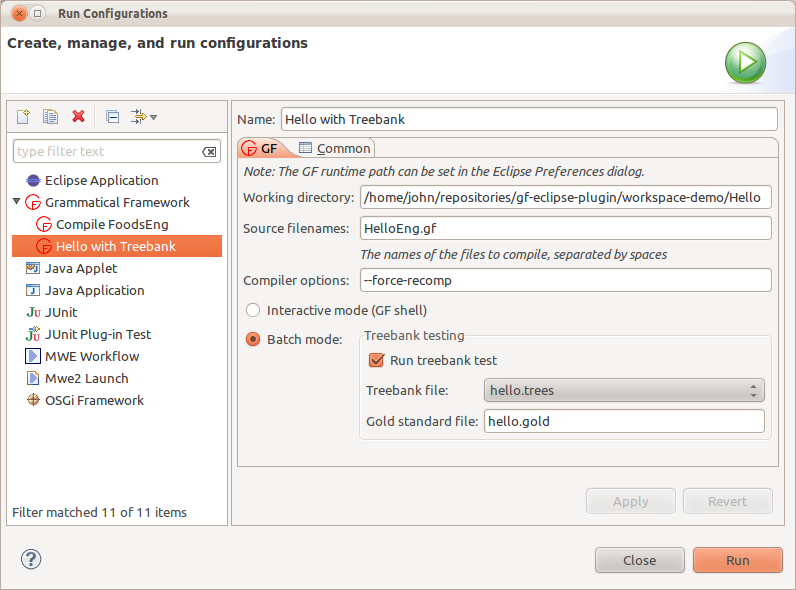
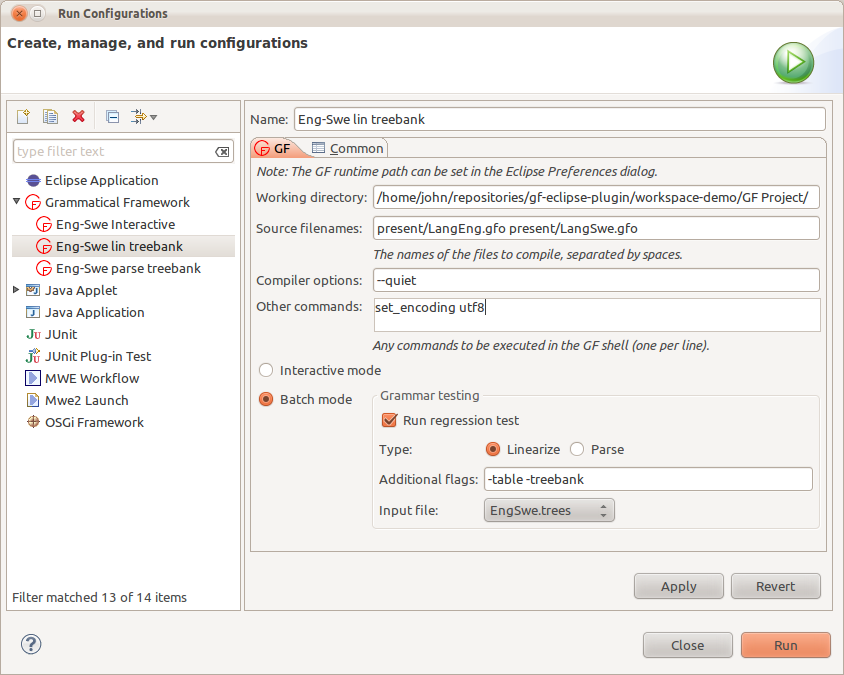
GFEP: updated readme

Changed region(s): [[0.0, 0.0, 1.0, 0.9763]]

diff --git a/eclipse/index.html b/eclipse/index.html
@@ -11,26 +11,29 @@
 <h1>The GF Eclipse Plugin</h1>
 
 <p>John  J. Camilleri<br />
-Updated: 22 March 2012</p>
+Updated: 4 April 2012</p>
 
 <p><em>The research leading to these results has received funding from the European Union&#8217;s Seventh Framework Programme (FP7/2007-2013) under grant agreement no. FP7-ICT-247914.</em></p>
 
-<p><em>This documentation is also available at the <a href="http://www.molto-project.eu/node/1395">MOLTO Project Wiki</a>.</em></p>
-
 <h2>Introduction</h2>
 
-<p>The aim behind developing a desktop IDE for GF is to provide more powerful tools than may be possible and/or practical in a web-based environment (the GF Web IDE). In particular, the ability to resolve identifier cross-references and browse external libraries quickly during development time is one of the primary motivations for the project.</p>
+<p>The aim behind developing a desktop IDE for GF is to provide more powerful tools than may be possible and/or practical in a web-based environment (the <a href="http://www.grammaticalframework.org/demos/gfse/">GF Web IDE</a>). In particular, the ability to resolve identifier cross-references and browse external libraries quickly during development time is one of the primary motivations for the project.</p>
 
-<p>The choice was made to develop this desktop IDE as a plugin for the Eclipse Platform as it emerged as the most popular choice among the GF developer community. Support for the platform is vast and many tools for adapting Eclipse to domain-specific languages already exist. Unlike the zero-click Web IDE approach, using the GF Eclipse plugin (GFEP) will require some manual installation and configuration on the development machine. Thus the GFEP is aimed more at seasoned developers rather than the curious GF newbie.</p>
+<p>The choice was made to develop this desktop IDE as a plugin for the Eclipse Platform as it emerged as the most popular choice among the GF developer community. Support for the platform is vast and many tools for adapting Eclipse to domain-specific languages already exist. Unlike the zero-click Web IDE approach, using the GF Eclipse plugin requires some manual installation and configuration on the development machine.</p>
 
-<p>The starting point for the GFEP is using the <a href="http://www.eclipse.org/Xtext/">Xtext DSL Framework</a> for Eclipse. By converting the GF grammar into the appropriate Extended-BNF form required by the LL(*) ANTLR parser, the framework provides a good starting point for future plugin development, already including a variery of syntax checking tools and some cross-reference resolution support. The specific requirements of the GF language, particularly in the way of its special module hierarchy, mean that significant customisations to this generated base plugin are needed.</p>
+<p>The GFEP was developed with support from the <a href="http://www.molto-project.eu/">MOLTO Project</a>.</p>
 
-<p>The GFEP is being developed by  as part of Work Package 2 of the <a href="http://www.molto-project.eu/">MOLTO Project</a>.</p>
+<h3>License</h3>
+
+<p>The GF Eclipse Plugin is open-source under the <a href="http://www.gnu.org/licenses/gpl-3.0.txt">GNU General Public License (GPL)</a>.<br />
+The licenses that cover the rest of GF are listed <a href="http://www.grammaticalframework.org/LICENSE">here</a>.<br />
+Note that Xtext and Eclipse are released under the <a href="http://www.eclipse.org/legal/epl-v10.html">Eclipse Public License (EPL)</a>.</p>
 
 <h3>Links</h3>
 
 <ul>
-<li>This document shall contain the most up-to-date information about the plugin. The most up-to-date version of this file can always be found in the source-code repository at <a href="https://github.com/GrammaticalFramework/gf-eclipse-plugin/blob/master/README.md">GitHub</a></li>
+<li>This document shall contain all collected information about the plugin. The most up-to-date version of this file can always be found at <a href="https://github.com/GrammaticalFramework/gf-eclipse-plugin/blob/master/README.md">GitHub</a></li>
+<li>This documentation is also available at the <a href="http://www.molto-project.eu/node/1395">MOLTO Project Wiki</a>.</li>
 <li>Source code repository is at <a href="https://github.com/GrammaticalFramework/gf-eclipse-plugin">github.com/GrammaticalFramework/gf-eclipse-plugin</a></li>
 <li>For reporting bugs and requesting features, please use the <a href="https://github.com/GrammaticalFramework/gf-eclipse-plugin/issues">GitHub Issue Tracker</a></li>
 <li>Here are some <a href="http://www.grammaticalframework.org/eclipse/examples/">example GF projects</a> for testing out the plugin features.</li>
@@ -52,21 +55,24 @@ Updated: 22 March 2012</p>
 <li>Code generation for new languages in application grammars</li>
 <li>Inline documentation for function calls, overloads</li>
 <li>Proper cross-reference handling with qualified names</li>
-<li>Treebank management and testing tool</li>
+<li>Test management and testing tool</li>
 <li>External library browser</li>
 </ul>
 
 <h2>Release history</h2>
 
 <dl>
+<dt><strong>04/04/12</strong></dt>
+<dd>(1.4.3.x) Improvements to the Test Manager. Added support for arbitrary commands in launch. Made the license information clearer.</dd>
+
 <dt><strong>22/03/12</strong></dt>
-<dd>(1.4.2.x) Added wizard for context-free grammars (no syntax support, though). Context-menu option for toggling the GF Nature and Builder together. Treebank tool now parses languages &amp; params, and includes filtering and toggling options.</dd>
+<dd>(1.4.2.x) Added wizard for context-free grammars (no syntax support, though). Context-menu option for toggling the GF Nature and Builder together. Test Manager now parses languages &amp; params, and includes filtering and toggling options.</dd>
 
 <dt><strong>14/03/12</strong></dt>
 <dd>(1.4.1.x) GF source files can now be anywhere in project, not necessarily at top level.</dd>
 
 <dt><strong>06/03/12</strong></dt>
-<dd>(1.4.0.x) Treebank manager view. Updated launch configurations. UI improvements, new icons. Inline contextual documentation. Correct resolution of qualified identifiers. Bug fixes and some refactoring.</dd>
+<dd>(1.4.0.x) Test manager view. Updated launch configurations. UI improvements, new icons. Inline contextual documentation. Correct resolution of qualified identifiers. Bug fixes and some refactoring.</dd>
 
 <dt><strong>07/02/12</strong></dt>
 <dd>(1.3.0.x) Re-written underlying GF grammar.</dd>
@@ -100,7 +106,7 @@ Updated: 22 March 2012</p>
 <h3>System requirements</h3>
 
 <ol>
-<li><a href="http://www.grammaticalframework.org/download/release-3.3.3.html">GF version 3.3.3</a> or above. The path to GF must be set within the plugin (see below).</li>
+<li><a href="http://www.grammaticalframework.org/download/release-3.3.3.html">GF 3.3.3</a> or above. The path to GF must be set within the plugin (see below).</li>
 <li><a href="http://www.eclipse.org/downloads/">Eclipse</a> 3.6 or above.</li>
 </ol>
 
@@ -322,9 +328,9 @@ Each time you save a file (or some other change occurs in your project), the bui
 
 <p><em>Future versions of this view will contain a full tree of all identifiers available in the current scope.</em></p>
 
-<h3><em>Treebank Manager</em> view</h3>
+<h3><em>Test Manager</em> view</h3>
 
-<p>This feature works together with the launch configurations to make the process of testing treebanks against your grammars quick and easy. As described in the <a href="http://www.grammaticalframework.org/gf-book/">GF Book</a> (Section 10.5), the general development-test cycle (independent of GFEP) is as follows:</p>
+<p>This feature works together with the launch configurations to make the process of running regression tests on your grammars quick and easy. As described in the <a href="http://www.grammaticalframework.org/gf-book/">GF Book</a> (Section 10.5), the general development-test cycle (independent of GFEP) is as follows:</p>
 
 <ol>
 <li>Create a file <code>test.trees</code> which contains a bunch of abstract syntax trees, which you want to test</li>
@@ -333,21 +339,21 @@ Each time you save a file (or some other change occurs in your project), the bui
 <li>Each time you update your grammar, repeat step 2, then compare your new output against the gold standard using <code>diff</code> or some other comparison tool.</li>
 </ol>
 
-<p>The <strong>Treebank Manager</strong> view follows this same pattern but provides a convenient graphical interface for running your treebanks and also for looking at the output, just using a few clicks:</p>
+<p>The <strong>Test Manager</strong> view follows this same pattern but provides a convenient graphical interface for running your test cases and also for looking at the output, just using a few clicks:</p>
 
-<p><img src="http://www.grammaticalframework.org/eclipse/images/eclipse-treebank-manager.png" alt="Treebank Manager view" /></p>
+<p><img src="http://www.grammaticalframework.org/eclipse/images/eclipse-test-manager.png" alt="Test Manager view" /></p>
 
 <p>Note that GFEP assumes the following convention:</p>
 
 <dl>
-<dt><code>nouns.trees</code></dt>
-<dd>Treebank file (abstract trees)</dd>
+<dt><code>*.trees</code> or <code>*.sentences</code></dt>
+<dd>Test input files: trees file (for testing linearisation) and sentences file (for testing parsing)</dd>
 
-<dt><code>nouns.trees.out</code></dt>
-<dd>Output file (generated linearisations)</dd>
+<dt><code>*.trees.out</code> or <code>*.sentences.out</code></dt>
+<dd>Corresponding output files (generated each time a test is run)</dd>
 
-<dt><code>nouns.trees.gold</code></dt>
-<dd>Gold standard file (manually corrected linearisations)</dd>
+<dt><code>*.trees.gold</code> or <code>*.sentences.gold</code></dt>
+<dd>Corresponding gold standard files (manually corrected from an output file)</dd>
 </dl>
 
 <h3>Logs</h3>
